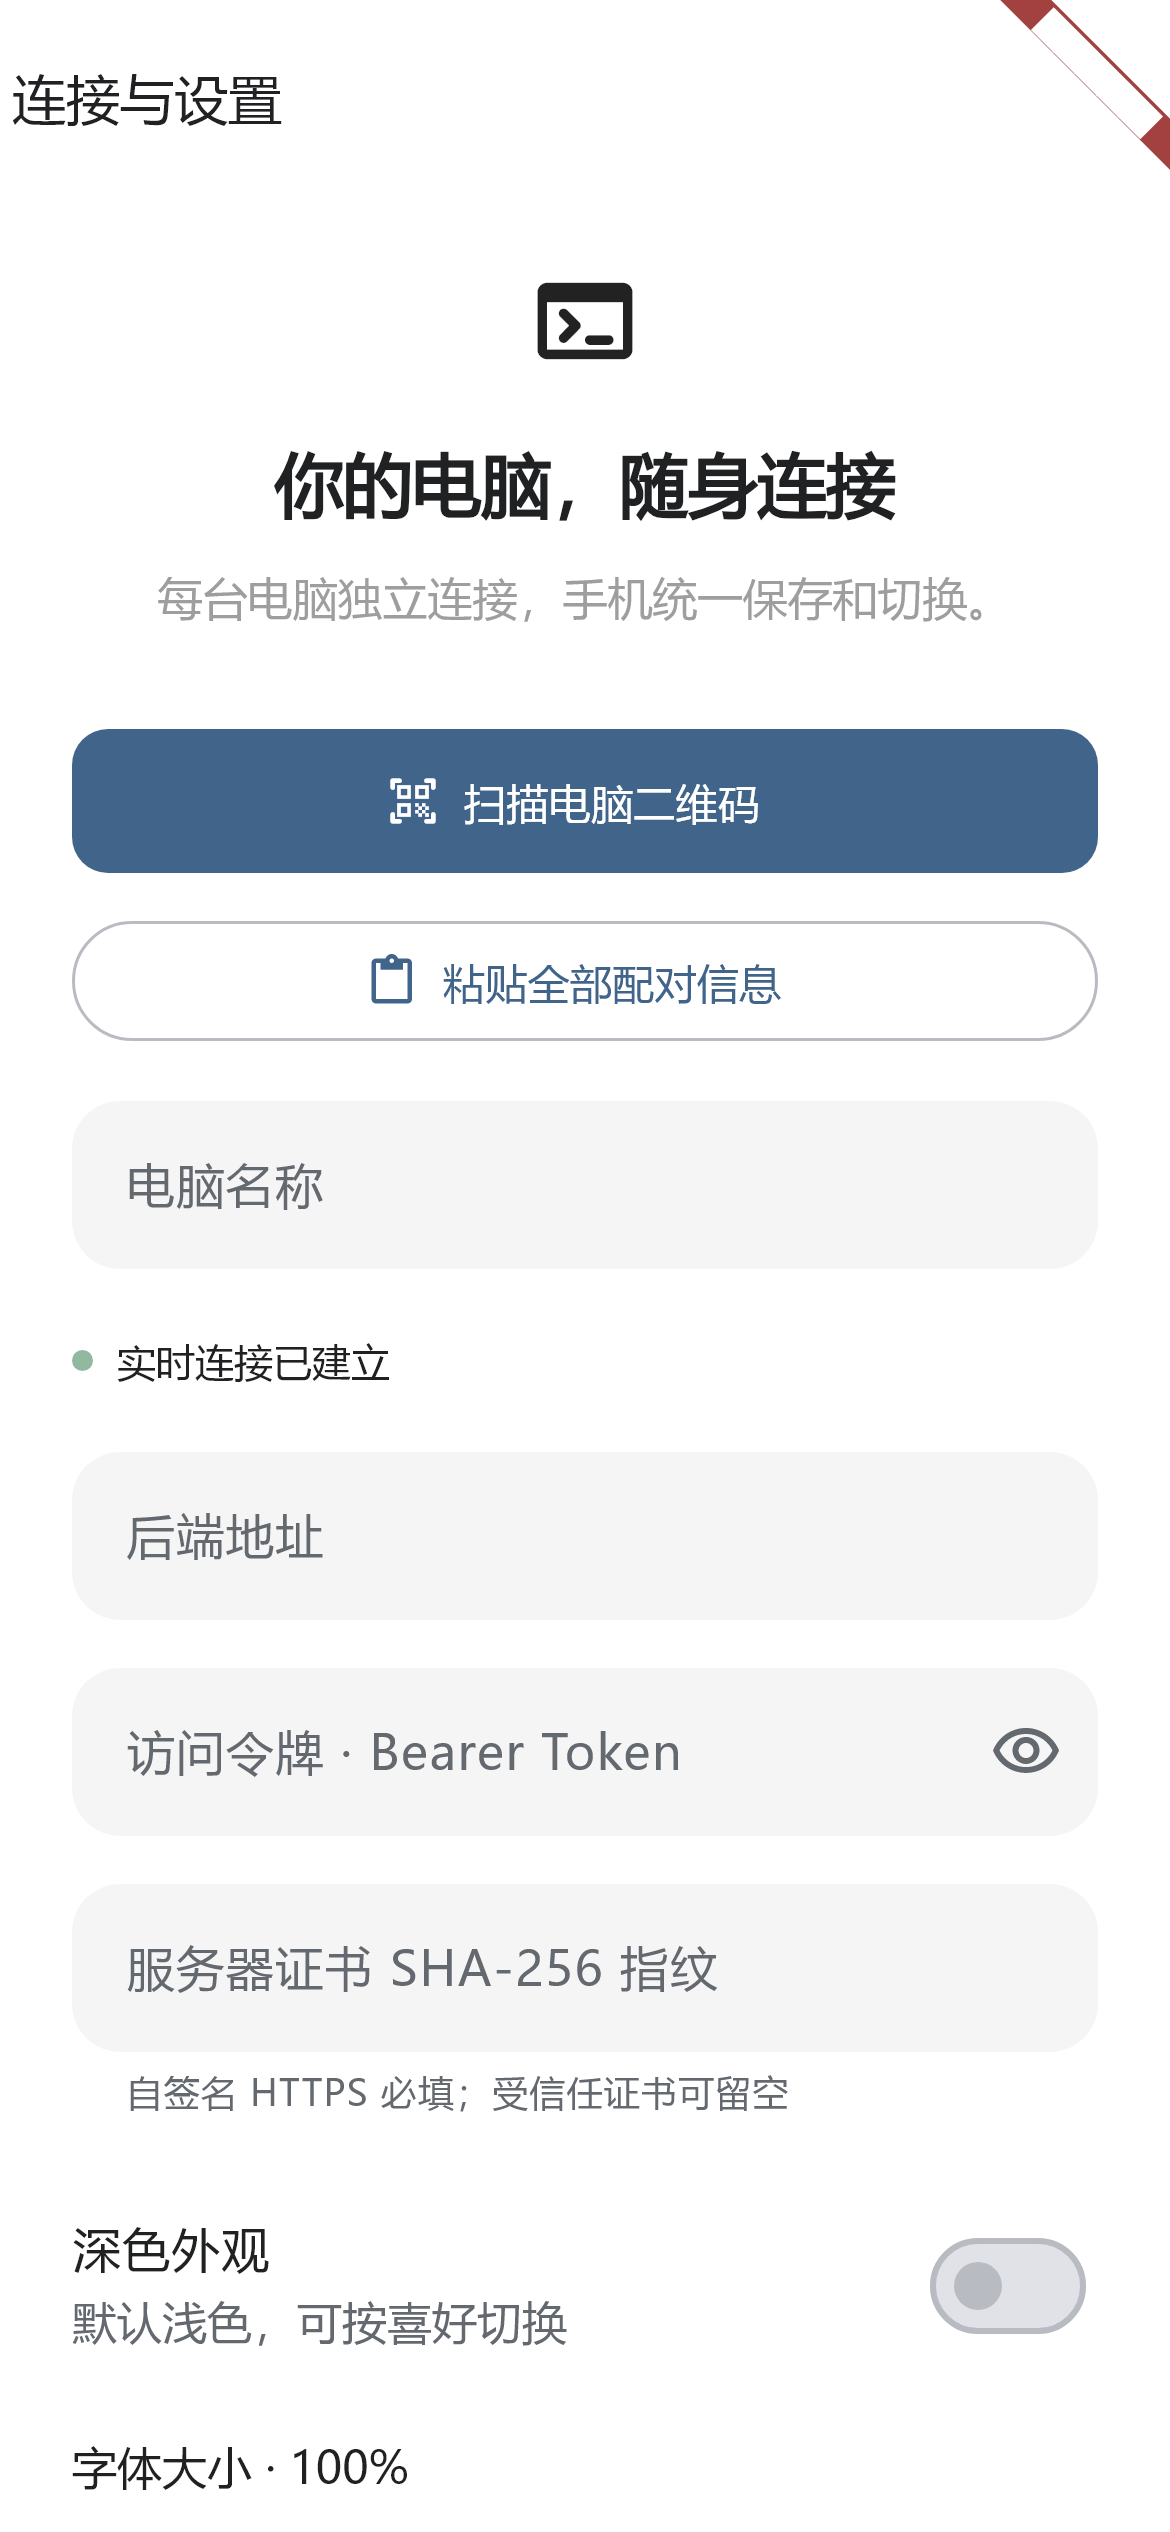
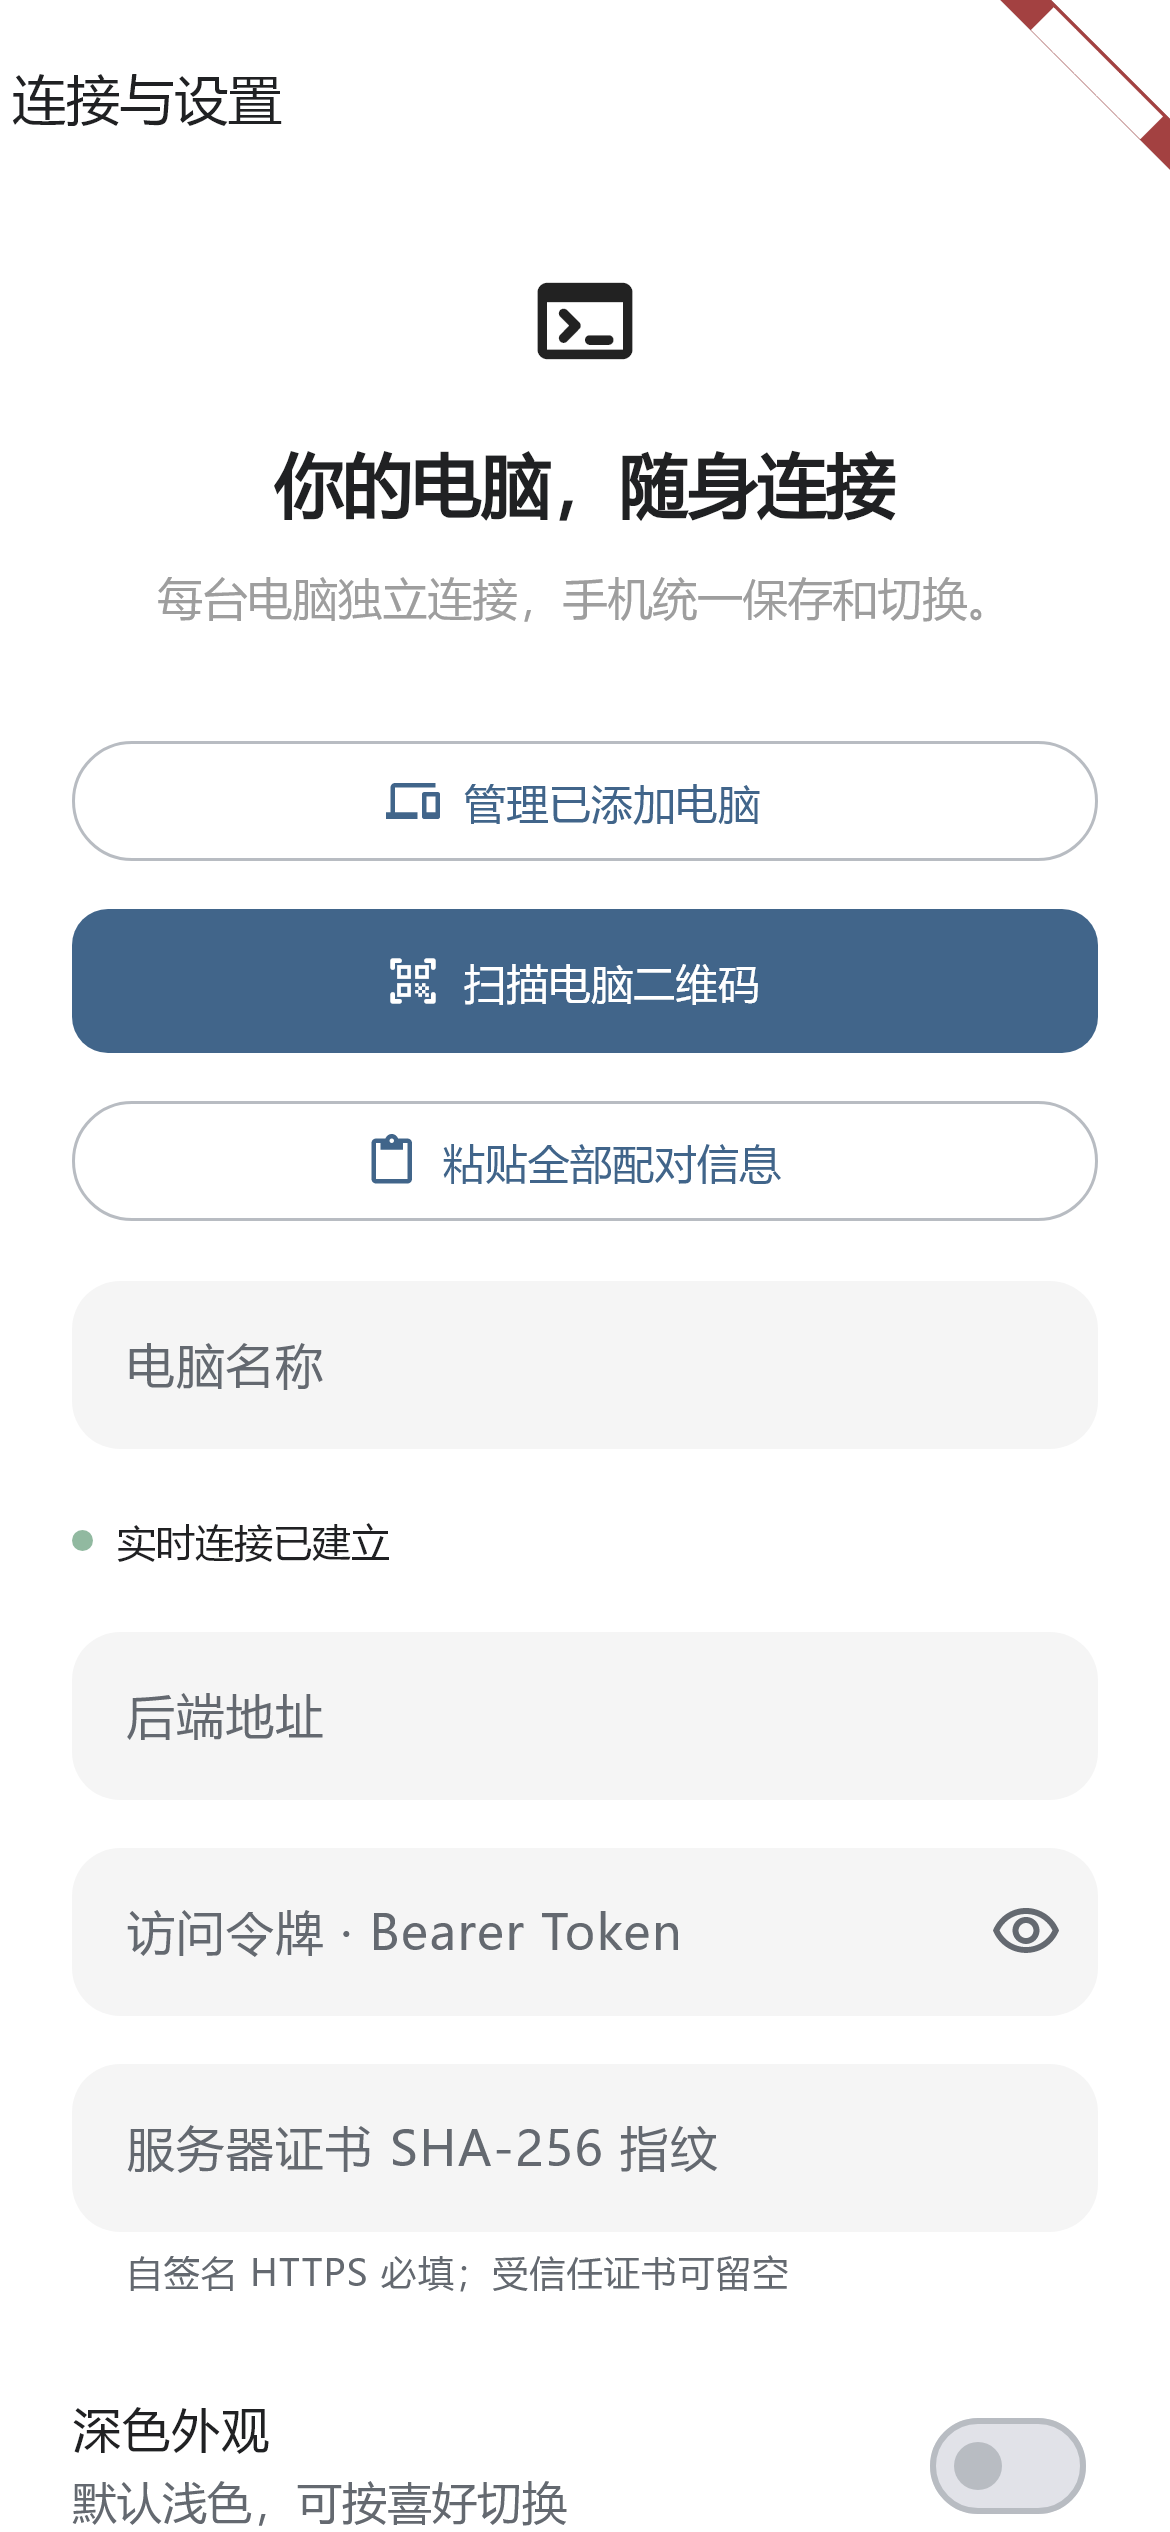
Clarify current account-free pairing and archive settings screenshot

diff --git a/docs/ANDROID-MESH.md b/docs/ANDROID-MESH.md
@@ -1,3 +1,11 @@
+# 当前连接方式（Android 0.2.14 / Windows 0.4.14）
+
+新版无需 Tailscale 账号。更新手机与电脑版后重新扫码一次，优先局域网与当前地址直连，不通时使用加密备用通道。小主机离线时同一局域网可直连，跨网络不保证可用。
+
+<small>使用 VPN 时建议选择规则／分流模式；若无法连接，请关闭全局／TUN 模式后重试。</small>
+
+以下是旧版历史说明，不适用于新版。
+
 # 安卓内置跨网络连接 · 0.2.11
 
 Mydex APK 内嵌 Tailscale tsnet。手机只装 Mydex，每台电脑分别连接；关闭小主机不影响手机连接仍在线的笔记本。关机的那台电脑自身仍无法收发对话。

diff --git a/docs/SCREENSHOTS.md b/docs/SCREENSHOTS.md
@@ -109,3 +109,7 @@ Windows 客户端截图
 ## 安卓删除电脑（演示数据）
 
 ![安卓删除电脑](images/delete-computer-native.png)
+
+## 0.2.14 设置中的设备管理入口（测试截图）
+
+![管理已添加电脑](images/add-computer.png)
